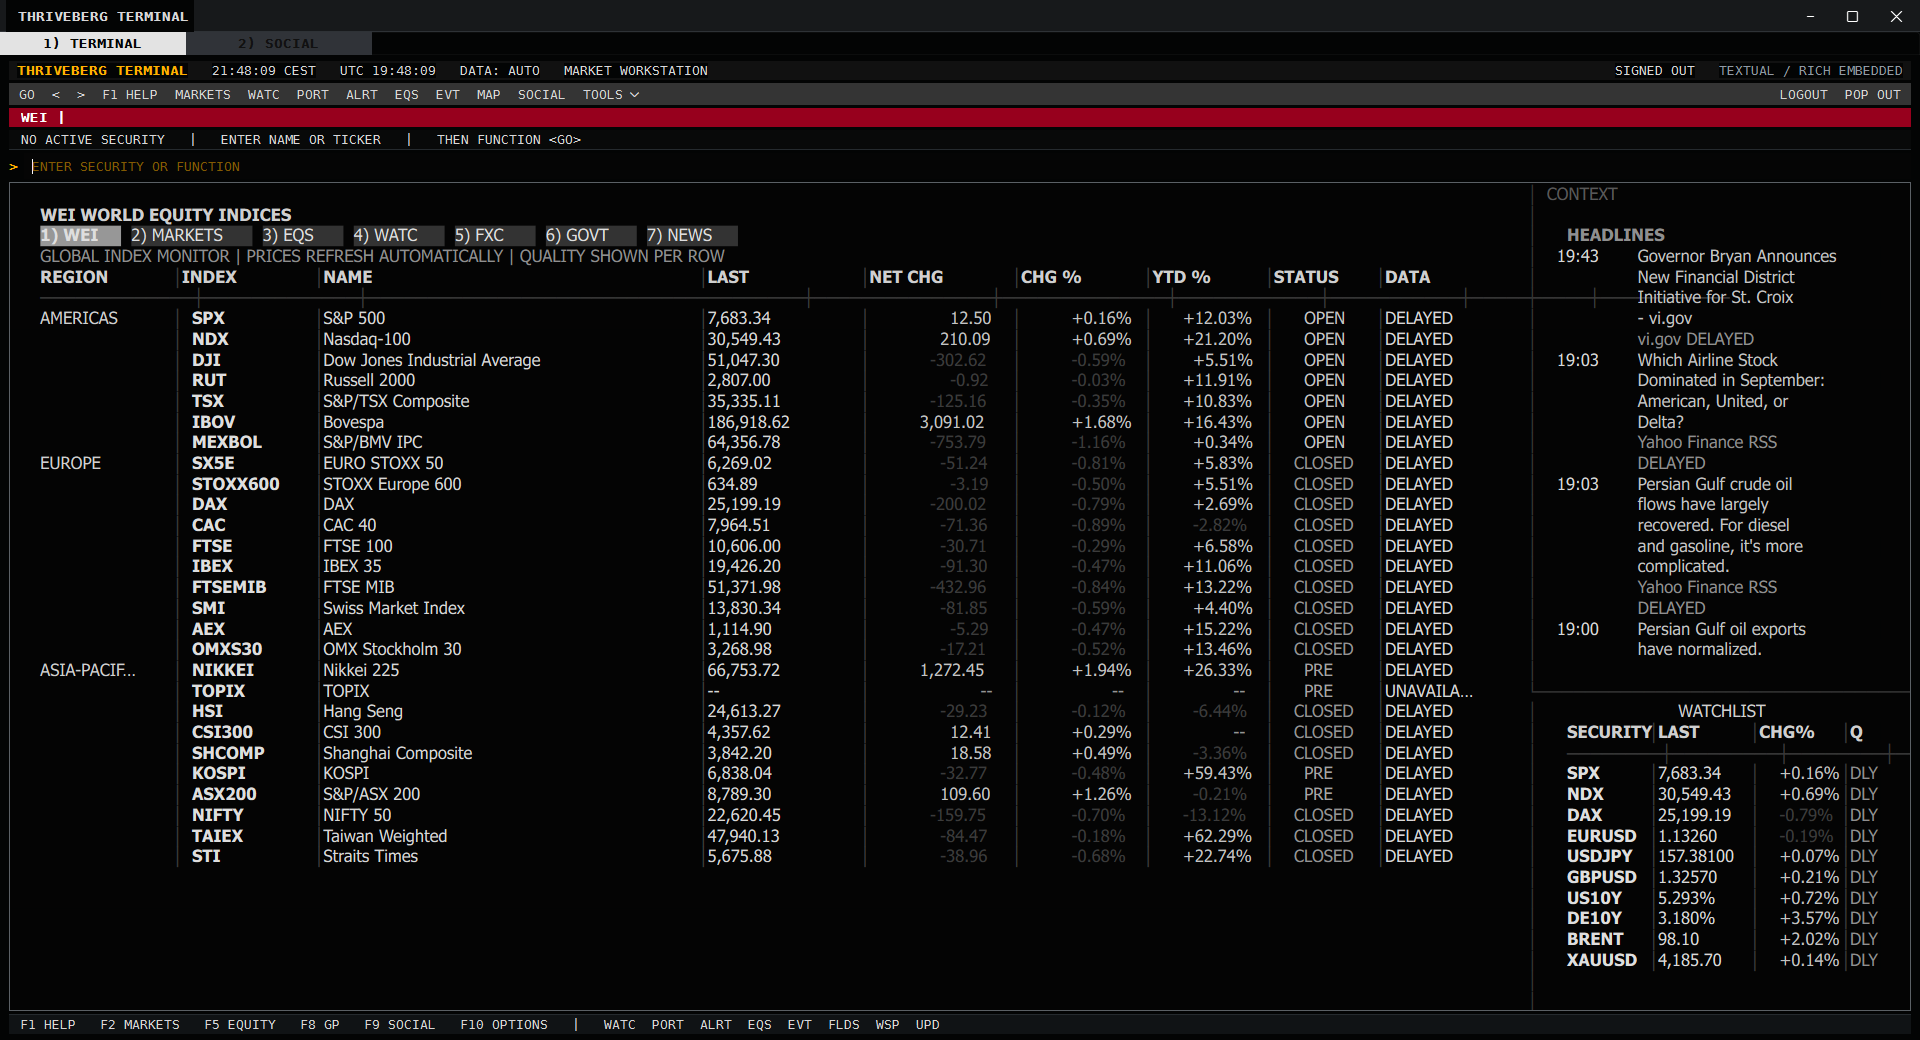
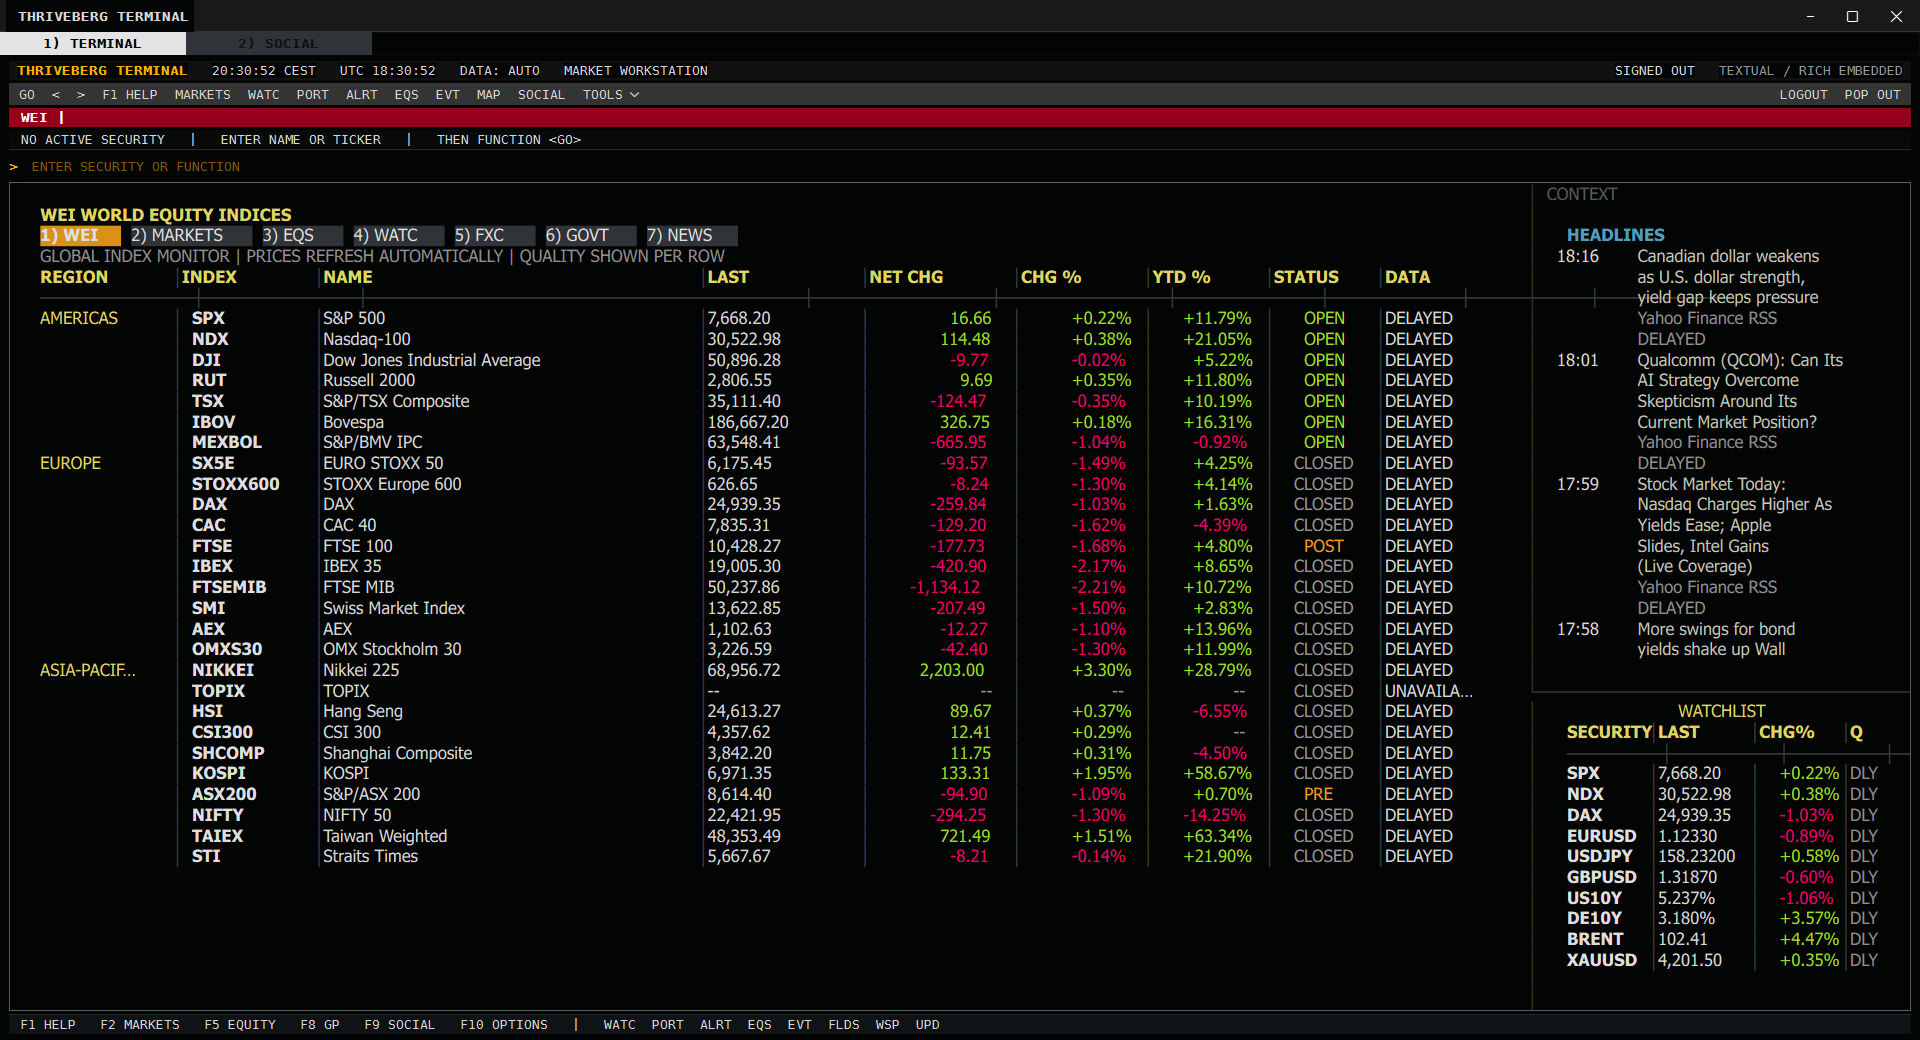
Expand the product gallery with full-color captures

diff --git a/ajax_terminal/__main__.py b/ajax_terminal/__main__.py
@@ -7,7 +7,8 @@ import sys
 
 def main() -> int:
     _ensure_standard_streams()
-    _configure_terminal_colors()
+    screenshot_mode = "--screenshot" in sys.argv or "--screenshot-splash" in sys.argv
+    _configure_terminal_colors(force=screenshot_mode)
     _migrate_plaintext_settings()
     from ajax_terminal.logging_config import configure_logging
 
@@ -102,10 +103,12 @@ def _ensure_standard_streams() -> None:
             setattr(sys, name, open(os.devnull, "w", encoding="utf-8"))
 
 
-def _configure_terminal_colors() -> None:
+def _configure_terminal_colors(*, force: bool = False) -> None:
     """Undo color-suppression inherited from non-interactive Windows launchers."""
     stdout = sys.stdout
-    if os.name != "nt" or stdout is None or not hasattr(stdout, "isatty") or not stdout.isatty():
+    if os.name != "nt":
+        return
+    if not force and (stdout is None or not hasattr(stdout, "isatty") or not stdout.isatty()):
         return
     os.environ.pop("NO_COLOR", None)
     if os.environ.get("TERM", "").lower() in {"", "dumb"}:

diff --git a/tests/test_main_startup.py b/tests/test_main_startup.py
@@ -36,3 +36,21 @@ def test_terminal_color_setup_accepts_windowed_executable_without_stdout(monkeyp
     monkeypatch.setattr(entrypoint.sys, "stdout", None)
 
     entrypoint._configure_terminal_colors()
+
+
+def test_terminal_color_setup_can_force_colors_for_screenshots(monkeypatch) -> None:
+    monkeypatch.setattr(entrypoint.os, "name", "nt")
+    monkeypatch.setattr(entrypoint.sys, "stdout", None)
+    monkeypatch.setenv("NO_COLOR", "1")
+    monkeypatch.setenv("TERM", "dumb")
+    monkeypatch.setenv("COLORTERM", "restore-after-test")
+    monkeypatch.setenv("FORCE_COLOR", "restore-after-test")
+    monkeypatch.delenv("COLORTERM")
+    monkeypatch.delenv("FORCE_COLOR")
+
+    entrypoint._configure_terminal_colors(force=True)
+
+    assert "NO_COLOR" not in entrypoint.os.environ
+    assert entrypoint.os.environ["TERM"] == "xterm-256color"
+    assert entrypoint.os.environ["COLORTERM"] == "truecolor"
+    assert entrypoint.os.environ["FORCE_COLOR"] == "1"

diff --git a/README.md b/README.md
@@ -2,7 +2,7 @@
 
 **THRIVEBERG** - Markets. Data. Analytics.
 
-![THRIVEBERG world equity monitor](screenshots/terminal-markets.png)
+![THRIVEBERG OVDV implied-volatility workstation](screenshots/ovdv-aapl-surface.png)
 
 THRIVEBERG Terminal is a local Python market workstation inspired by the density and speed of professional financial terminals. It uses a black, compact, keyboard-first interface with modular panels, watchlists, command navigation, analytics, and a provider layer designed for public data first and private APIs later.
 
@@ -12,17 +12,37 @@ It does not use Bloomberg branding, logos, proprietary typefaces, or protected U
 
 ## Product tour
 
-| Security description | Interactive price chart |
+### Cross-asset market monitor
+
+![THRIVEBERG world equity monitor](screenshots/terminal-markets.png)
+
+WEI groups major indices by region, carries market status and data quality on every row, and keeps the live watchlist and news context visible beside the market grid.
+
+### Fundamentals and listed options
+
+| Detailed balance sheet | Listed-option chain |
 | --- | --- |
-| ![AAPL security description](screenshots/equity-description.png) | ![AAPL price chart](screenshots/equity-price-chart.png) |
+| ![AAPL detailed balance sheet](screenshots/aapl-balance-sheet.png) | ![AAPL listed-option monitor](screenshots/aapl-option-monitor.png) |
 
-### Listed-options volatility workstation
+### Price discovery and market structure
 
-![AAPL OVDV listed-options volatility workstation](screenshots/ovdv-aapl-surface.png)
+| Interactive price chart | Official USD yield curve |
+| --- | --- |
+| ![AAPL interactive price chart](screenshots/equity-price-chart.png) | ![Official USD Treasury yield curve](screenshots/usd-yield-curve.png) |
+
+### Research workflow
+
+| Security description | Global corporate calendar |
+| --- | --- |
+| ![AAPL security description](screenshots/equity-description.png) | ![Global corporate event calendar](screenshots/global-event-calendar.png) |
+
+| Relative valuation | Live news wire |
+| --- | --- |
+| ![AAPL relative valuation](screenshots/aapl-relative-valuation.png) | ![Live financial news wire](screenshots/live-news-wire.png) |
+
+### Listed-options volatility
 
 OVDV turns real listed-option observations into an interactive implied-volatility surface. The native VTK viewport supports drag rotation, pan and zoom, while the same workspace tracks the term structure, smile/skew and market snapshot.
-
-#### Native 3D surface
 
 ![AAPL implied-volatility surface rendered with VTK](screenshots/ovdv-aapl-surface-vtk.png)
 
@@ -136,7 +156,7 @@ running it and may still see a Microsoft SmartScreen warning.
   also enforce hostname allowlists.
 - Supabase access is constrained by Auth and row-level security. The bundled
   key is publishable and has no administrative privileges.
-- CI runs 224 tests, `pip-audit`, `detect-secrets`, and Bandit for every change.
+- CI runs 225 tests, `pip-audit`, `detect-secrets`, and Bandit for every change.
 
 See [SECURITY.md](SECURITY.md) for vulnerability reporting and
 [the latest audit](docs/SECURITY_AUDIT.md) for verified results and residual

diff --git a/docs/SECURITY_AUDIT.md b/docs/SECURITY_AUDIT.md
@@ -1,11 +1,11 @@
-# Security audit - 2026-09-30
+# Security audit - 2026-10-01
 
 Scope: source tree prepared for the initial private GitHub publication of
 THRIVEBERG Terminal 0.5.0 Beta.
 
 ## Results
 
-- `pytest`: 224 passed.
+- `pytest`: 225 passed.
 - `pip-audit`: no known vulnerable installed dependencies.
 - Bandit: no medium- or high-severity findings after hardening.
 - `detect-secrets`: no private credentials found. Seven reviewed findings are
